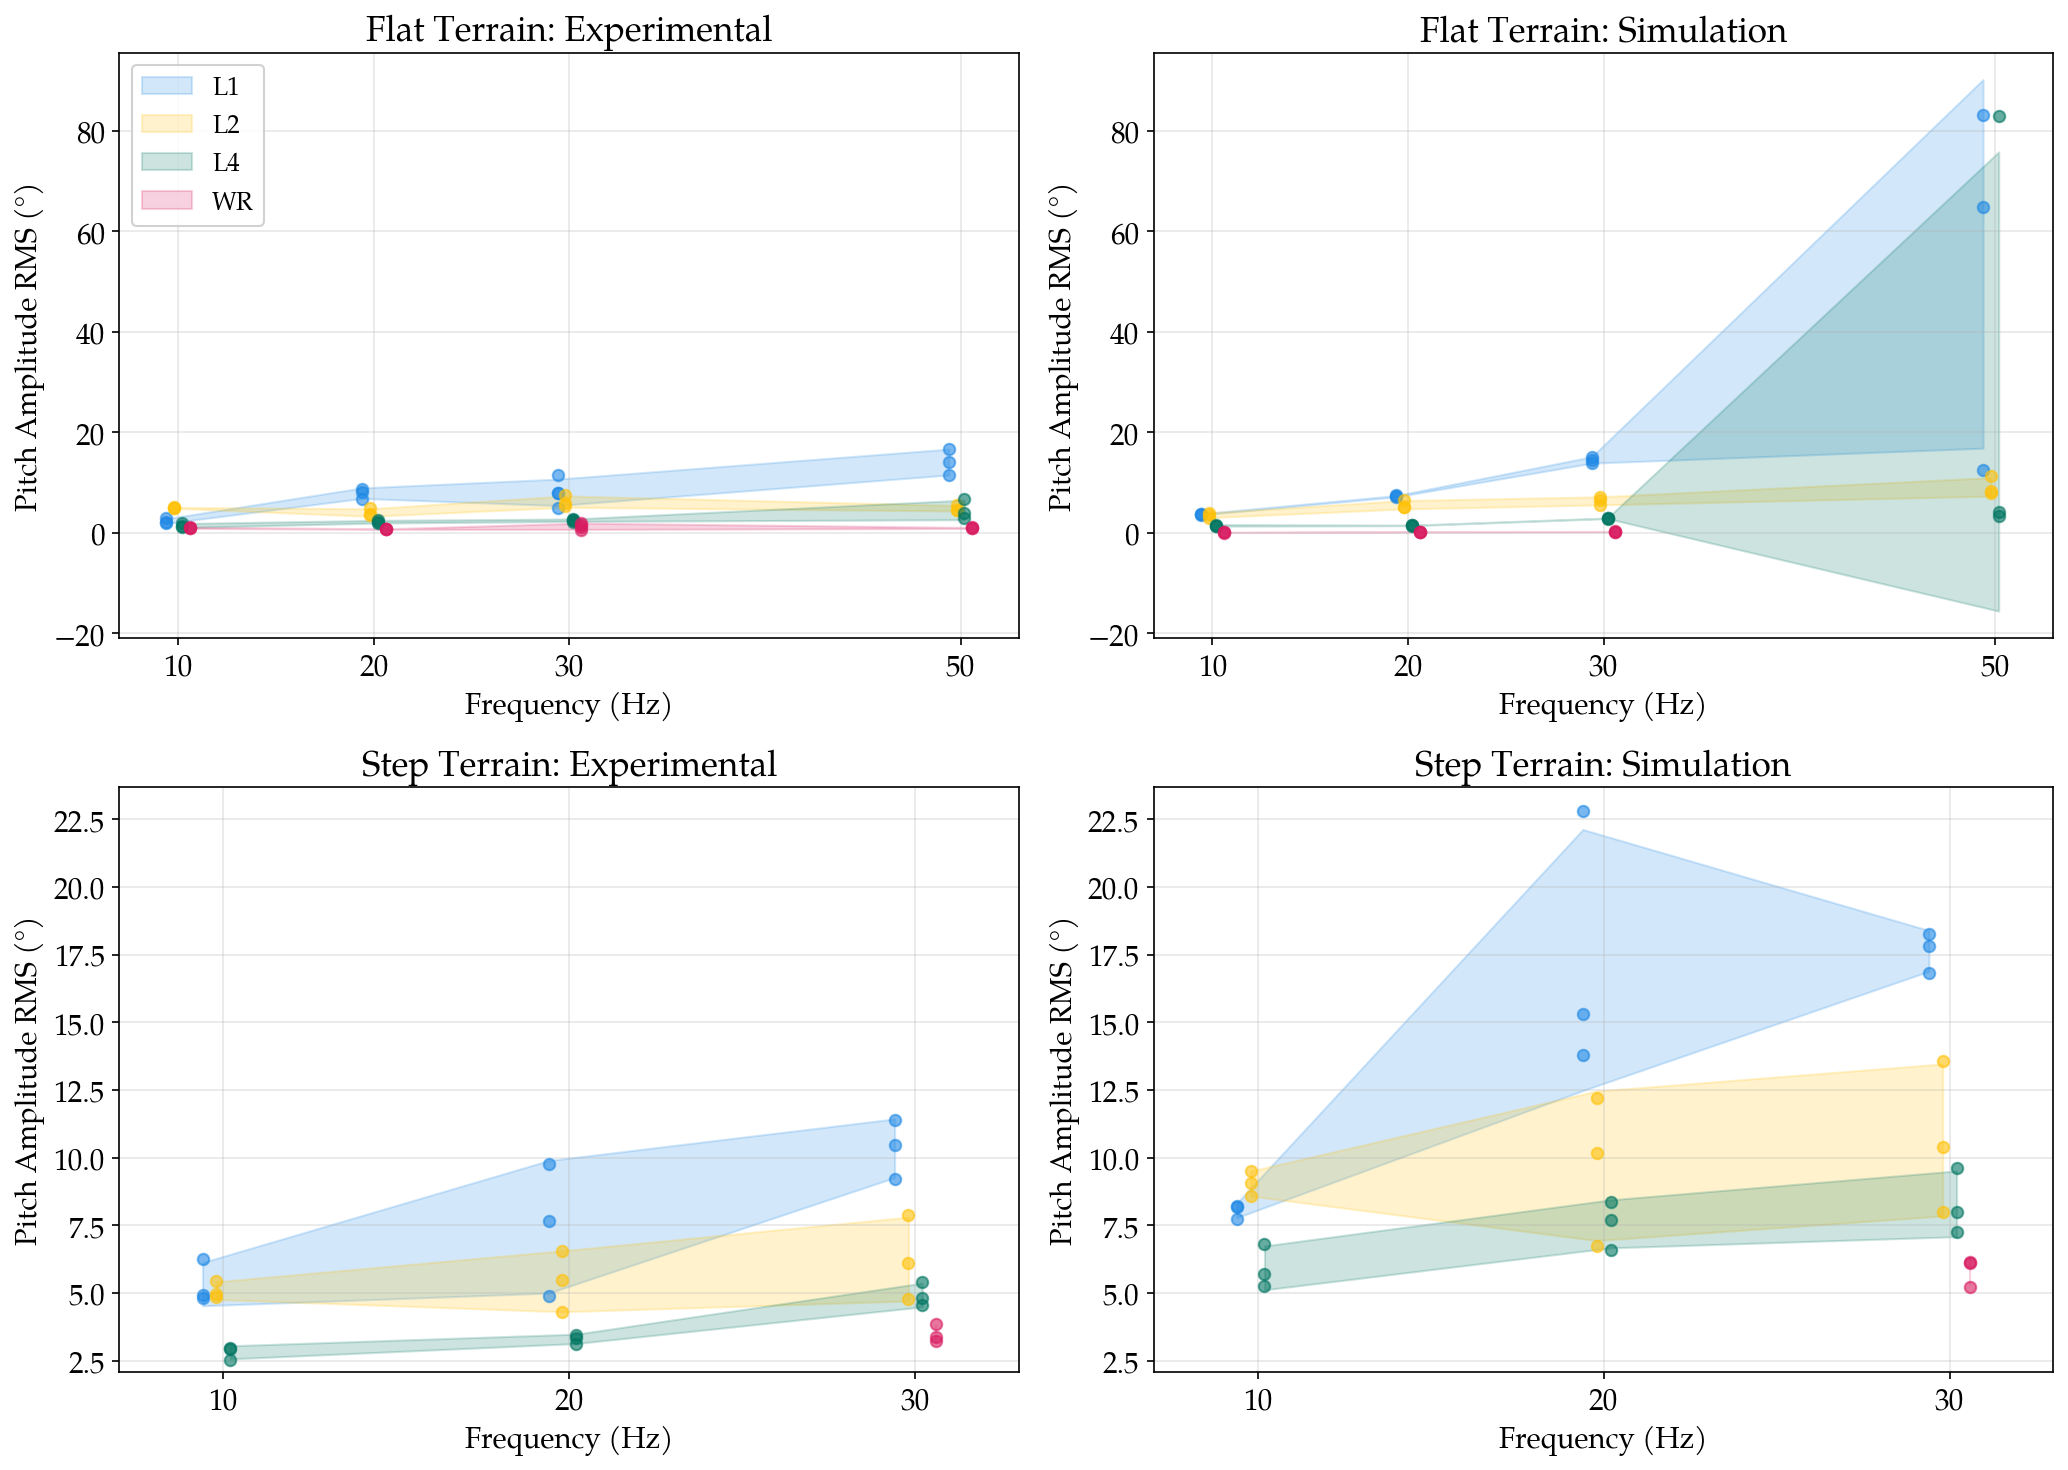
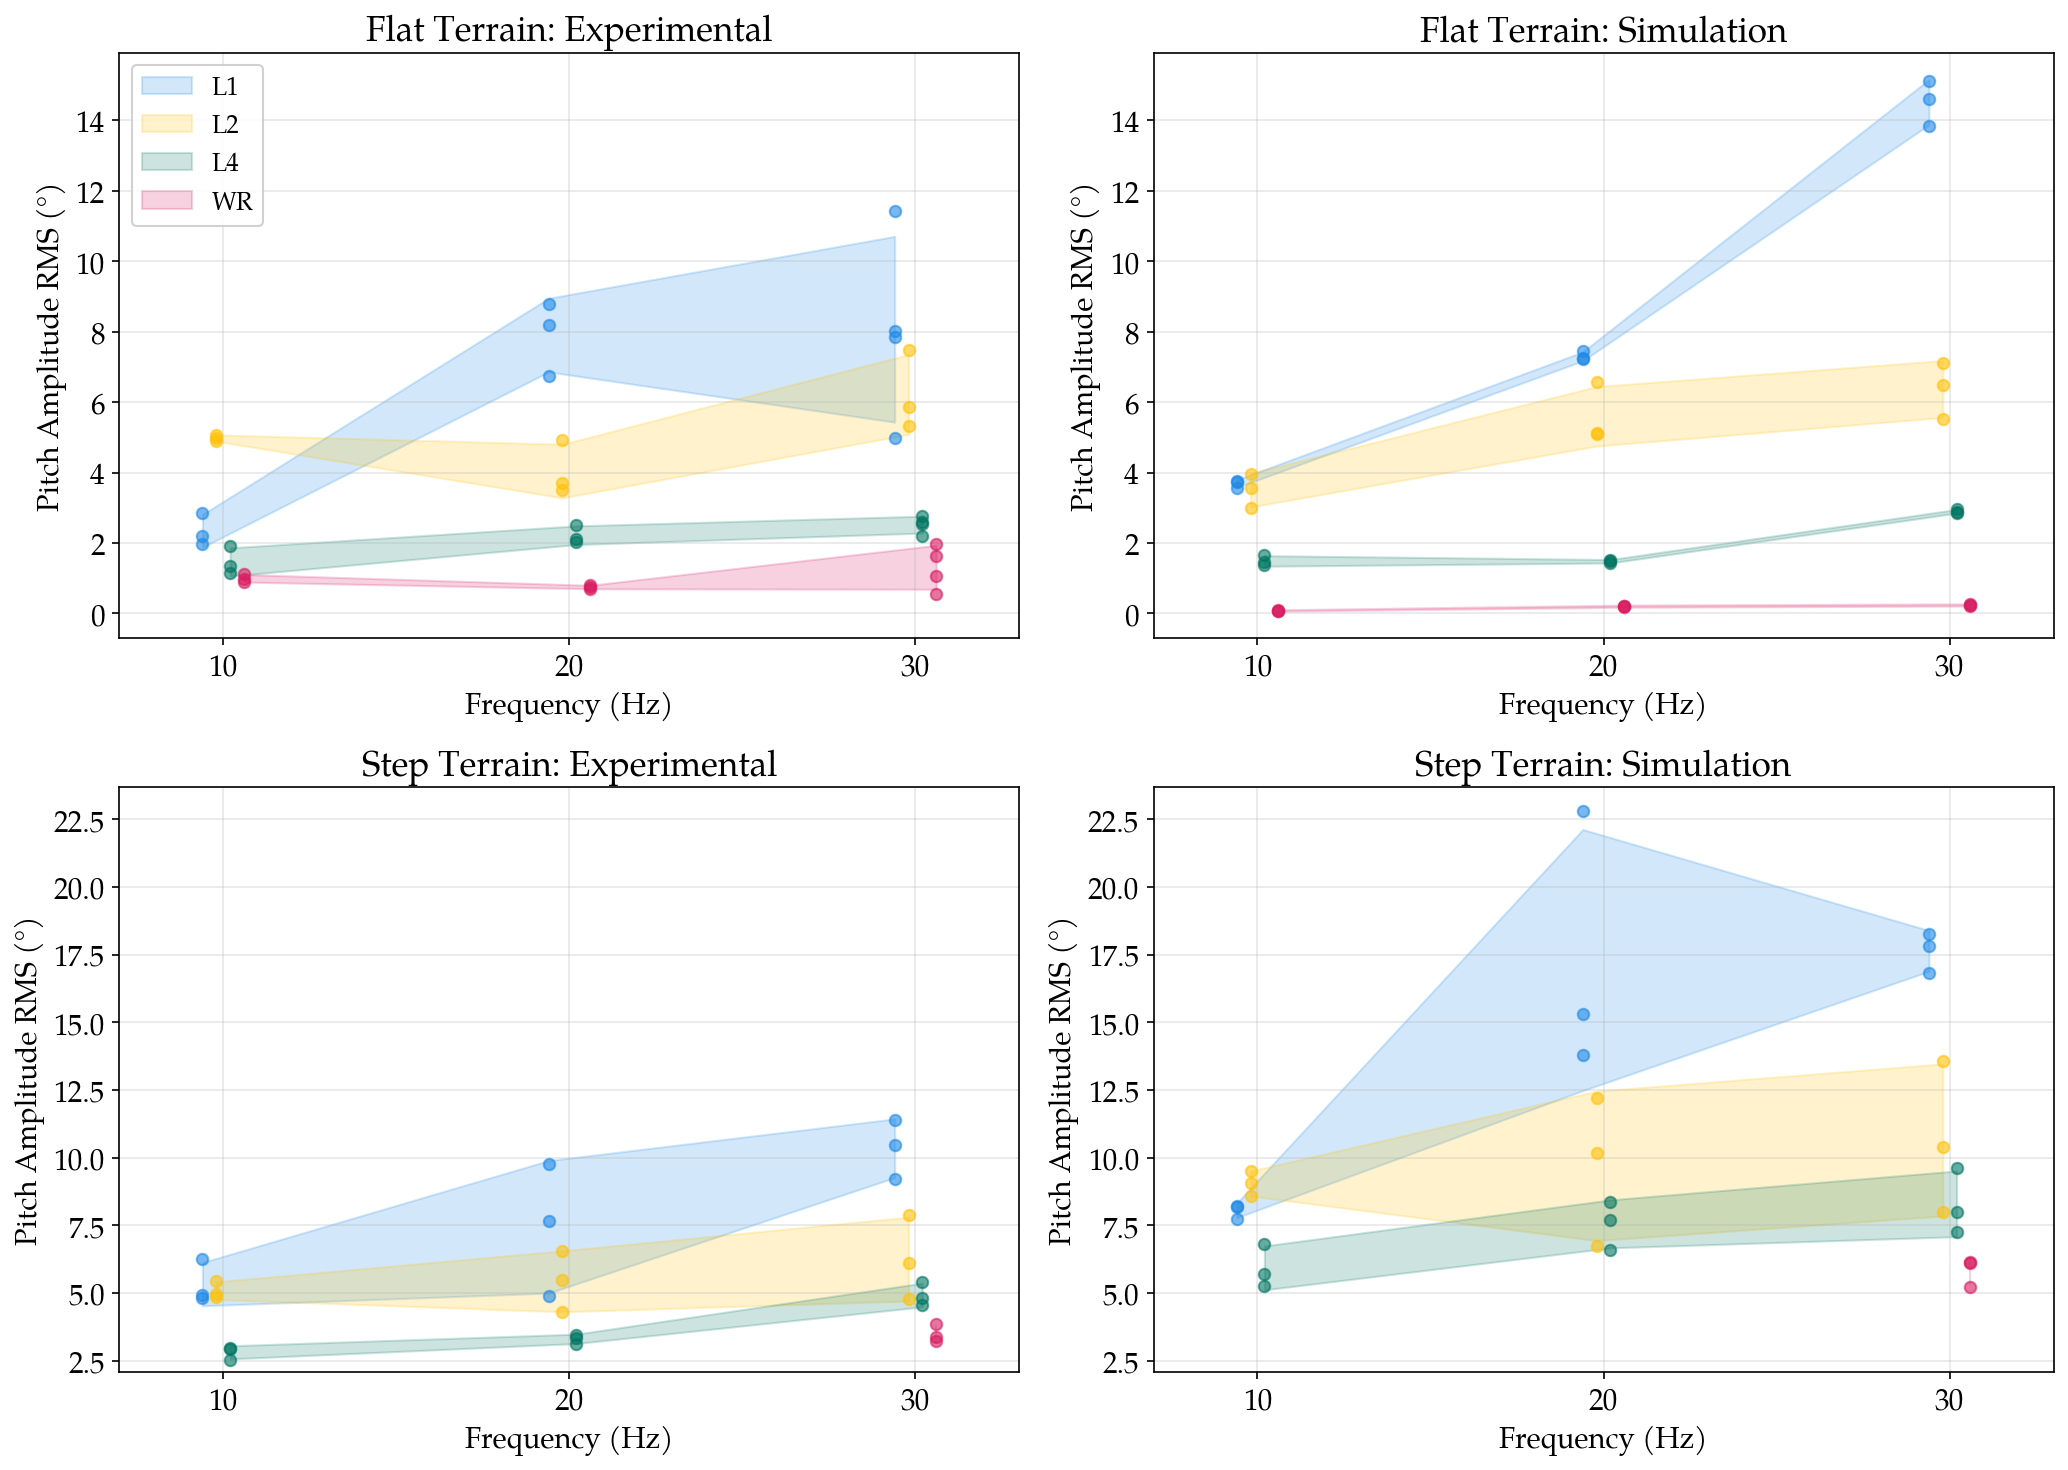
modified rough terrain cost to space gating

diff --git a/milliquad_opt/analysis/plot_exp_vs_sim_pitch.py b/milliquad_opt/analysis/plot_exp_vs_sim_pitch.py
@@ -48,6 +48,27 @@ def _remap_exp_data(exp_data: dict) -> dict:
     return {_MORPH_TO_SCENE[m]: exp_data[m] for m in exp_data if m in _MORPH_TO_SCENE}
 
 
+# Frequencies to exclude from comparison (same as velocity: f50 excluded from flat)
+_EXCLUDE_FREQS: dict[str, list[float]] = {
+    "flat": [50.0],
+}
+
+
+def _strip_freqs(data: dict, freqs_to_remove: list[float]):
+    """Remove specified frequencies from plot data (both scatter and summary)."""
+    for scene in data:
+        d = data[scene]
+        # Strip scatter points
+        keep = [j for j, f in enumerate(d["freqs"]) if f not in freqs_to_remove]
+        d["freqs"] = [d["freqs"][j] for j in keep]
+        d["trials"] = [d["trials"][j] for j in keep]
+        # Strip summary stats
+        keep_m = [j for j, f in enumerate(d["mean_freqs"]) if f not in freqs_to_remove]
+        d["mean_freqs"] = [d["mean_freqs"][j] for j in keep_m]
+        d["means"] = [d["means"][j] for j in keep_m]
+        d["stds"] = [d["stds"][j] for j in keep_m]
+
+
 def main():
     parser = argparse.ArgumentParser(
         description=__doc__, formatter_class=argparse.RawDescriptionHelpFormatter,
@@ -86,13 +107,19 @@ def main():
     for i, (terrain, rows, _) in enumerate(entries):
         title = TERRAIN_TITLES.get(terrain, terrain.title())
 
+        exclude = _EXCLUDE_FREQS.get(terrain, [])
+
         # Left: experimental
         exp_raw = exp_extractors[terrain]()
         exp_data = _remap_exp_data(exp_raw)
+        if exclude:
+            _strip_freqs(exp_data, exclude)
         plot_panel(axes[i, 0], exp_data, f"{title}: Experimental", ylabel)
 
         # Right: simulation
         sim_data = build_plot_data(rows, "pitch_rms", selected_only=True)
+        if exclude:
+            _strip_freqs(sim_data, exclude)
         plot_panel(axes[i, 1], sim_data, f"{title}: Simulation", ylabel)
 
         # Share y-axis range per row

diff --git a/milliquad_opt/DEPENDENCY_RELIANCE.md b/milliquad_opt/DEPENDENCY_RELIANCE.md
@@ -1,0 +1,59 @@
+# External Dependencies in `milliquad_opt/`
+
+Audit date: 2026-02-28
+
+Goal: make `milliquad_opt/` fully self-contained — no runtime imports or file
+reads reaching into `/experimental_data` or `/mujoco_refactor` (or project-root
+`/utils`).
+
+## Files with real external dependencies
+
+### 1. `analysis/plot_exp_vs_sim.py` — 🔴 Hard import
+
+- **Line 26**: `_EXP_DIR = ...parent.parent.parent / "experimental_data"`
+- **Line 30**: `from plot_velocity_vs_freq import extract_flat, extract_step`
+- Adds `experimental_data/` to `sys.path` and imports two functions from
+  `experimental_data/plot_velocity_vs_freq.py`.
+
+### 2. `analysis/plot_exp_vs_sim_pitch.py` — 🔴 Hard import
+
+- **Line 26**: `_EXP_DIR = ...parent.parent.parent / "experimental_data"`
+- **Line 30**: `from plot_pitch_vs_freq import extract_flat_pitch, extract_step_pitch`
+- Same pattern as above, imports from `experimental_data/plot_pitch_vs_freq.py`.
+
+### 3. `analysis/validate_params.py` — 🟡 File read (graceful fallback)
+
+- **Lines 73-76**: reads `experimental_data/csv/random_terrain_raw.csv` via pathlib.
+- Only used for rough-terrain exploratory conditions. Returns `[]` if file is
+  missing, so it won't crash — but still reaches outside.
+
+### 4. `generate_terrain_xmls.py` — 🔴 Hard import
+
+- **Line 23**: `PROJECT_ROOT = pathlib.Path(__file__).resolve().parent.parent`
+- **Line 26**: `from utils.terrain_mesh import generate_heightmap`
+- Imports `generate_heightmap` from project-root `utils/terrain_mesh.py`.
+
+## Files with comment-only references (no dependency)
+
+These mention `experimental_data` or `mujoco_refactor` in comments/docstrings
+only. No runtime coupling — safe to ignore.
+
+- `analysis/plot_validation.py` — docstring mentions plot filenames for style
+  reference; line 31 comment notes color origin.
+- `generate_terrain_xmls.py` — lines 41, 53 note where constants were copied
+  from.
+
+## Fix options
+
+1. **Copy needed functions/data into `milliquad_opt/`** — inline
+   `generate_heightmap`, copy `extract_flat`/`extract_step` and pitch
+   equivalents, copy the CSV.
+2. **Remove the external-dependent features** if they aren't needed in the
+   standalone version.
+3. **Hybrid** — keep `validate_params.py` as-is (graceful fallback) and only
+   fix the three hard-import files.
+
+## All 41 `.py` files checked
+
+37 files are fully self-contained. The 4 listed above are the only ones with
+external dependencies.
